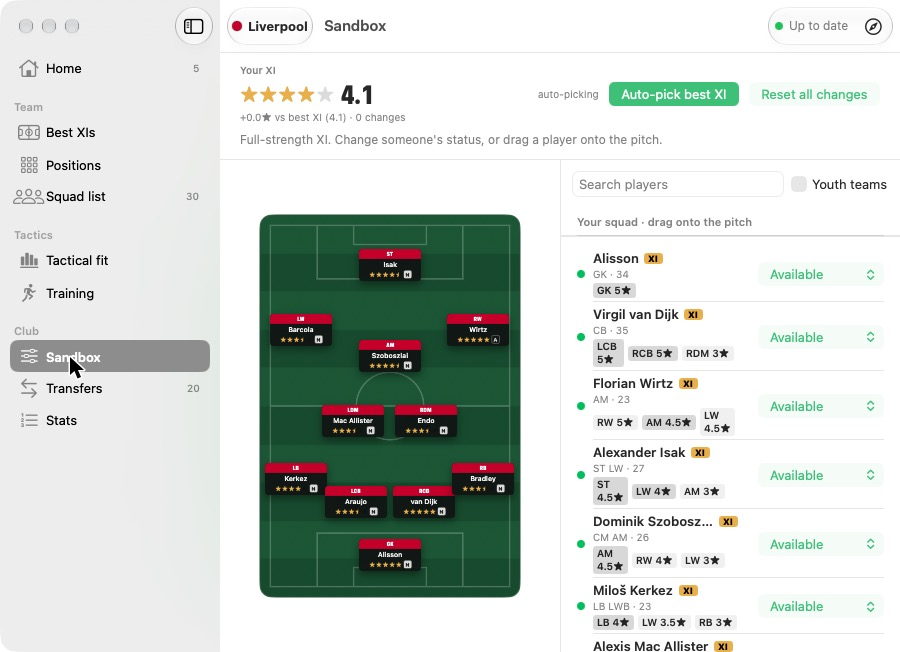
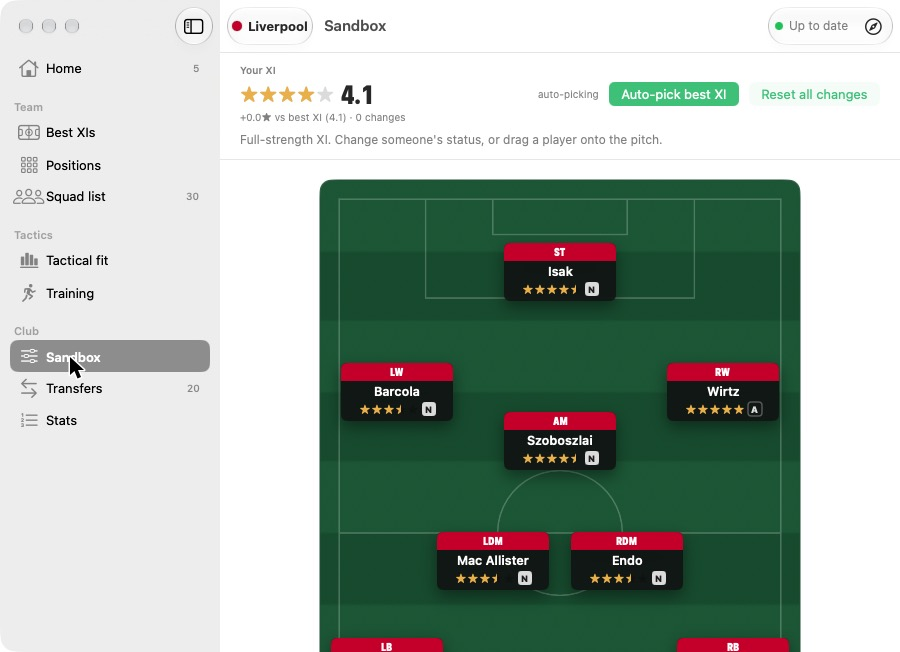
Mac app: readable Sandbox on small windows
When the pitch would get narrower than 380 pt beside the squad list (a
window under about 1000 wide, or a short one), the Sandbox becomes one
scrolling column: the pitch at full size with the squad underneath.
Position chips in the squad list never wrap: three if they fit, else two,
else one. The away-on-loan group folds with its own button so the same
sections work in both layouts.

diff --git a/mac/SquadReport/Views/SandboxView.swift b/mac/SquadReport/Views/SandboxView.swift
@@ -18,23 +18,43 @@ struct SandboxView: View {
 
 private struct SandboxPage: View {
     @Bindable var model: SandboxModel
+    @State private var area = CGSize(width: 1100, height: 700)
+
+    /// Side by side needs a pitch at least this wide, or the cards get too small to read.
+    static let minPitch: CGFloat = 380
+    static let rosterWidth: CGFloat = 420
 
     var body: some View {
+        // the pitch is 68 wide for every 100 tall, so a short window shrinks it as much as a narrow one
+        let sideBySidePitch = min(area.width - Self.rosterWidth - 40, (area.height - 40) * 0.68)
         VStack(spacing: 0) {
             ScoreBar(model: model)
             Divider()
-            HStack(alignment: .top, spacing: 0) {
-                GeometryReader { geo in
-                    let width = min(geo.size.width - 40, (geo.size.height - 40) * 0.68)
-                    SandboxPitch(model: model)
-                        .frame(width: max(300, width))
-                        .frame(maxWidth: .infinity, maxHeight: .infinity)
+            Group {
+                if sideBySidePitch >= Self.minPitch {
+                    HStack(alignment: .top, spacing: 0) {
+                        SandboxPitch(model: model)
+                            .frame(width: sideBySidePitch)
+                            .frame(maxWidth: .infinity, maxHeight: .infinity)
+                        Divider()
+                        Roster(model: model, stacked: false)
+                            .frame(width: Self.rosterWidth)
+                    }
+                } else {
+                    // small window: the pitch at a readable size, the squad underneath, one scroll for both
+                    ScrollView {
+                        VStack(spacing: 0) {
+                            SandboxPitch(model: model)
+                                .frame(width: min(area.width - 40, 520))
+                                .frame(maxWidth: .infinity)
+                            Divider()
+                            Roster(model: model, stacked: true)
+                        }
+                    }
                 }
-                .frame(minWidth: 300)
-                Divider()
-                Roster(model: model)
-                    .frame(minWidth: 330, idealWidth: 440, maxWidth: 520)
             }
+            .frame(maxWidth: .infinity, maxHeight: .infinity)
+            .onGeometryChange(for: CGSize.self) { $0.size } action: { area = $0 }
         }
     }
 }
@@ -216,6 +236,8 @@ private func dragPreview(_ player: Player?) -> some View {
 
 private struct Roster: View {
     let model: SandboxModel
+    /// Under the pitch (small window) instead of beside it: no List of its own, the page scrolls.
+    let stacked: Bool
     @Environment(AppModel.self) private var app
     @State private var search = ""
     @State private var youth = false
@@ -238,38 +260,88 @@ private struct Roster: View {
                 Toggle("Youth teams", isOn: $youth)
             }
             .padding(12)
-            List {
-                Section("Your squad · drag onto the pitch") {
-                    ForEach(here) { RosterRow(model: model, player: $0, inXI: inXI.contains($0.uid)) }
+            if stacked {
+                LazyVStack(alignment: .leading, spacing: 0) {
+                    sections(here: here, arriving: arriving, away: away, targets: targets, inXI: inXI, searching: !q.isEmpty)
                 }
-                if !arriving.isEmpty {
-                    Section("Arriving · already agreed, rated as if they're here") {
-                        ForEach(arriving) { RosterRow(model: model, player: $0, inXI: inXI.contains($0.uid)) }
-                    }
+                .padding(.horizontal, 16).padding(.bottom, 20)
+            } else {
+                List {
+                    sections(here: here, arriving: arriving, away: away, targets: targets, inXI: inXI, searching: !q.isEmpty)
                 }
-                if !away.isEmpty {
-                    Section(isExpanded: Binding(get: { showAway || !q.isEmpty }, set: { showAway = $0 })) {
-                        ForEach(away) { RosterRow(model: model, player: $0, inXI: inXI.contains($0.uid)) }
-                    } header: {
-                        Text("Away on loan · \(away.count) · set one to Available to try him")
-                    }
-                }
-                Section {
-                    ForEach(targets) { RosterRow(model: model, player: $0, inXI: inXI.contains($0.uid)) }
-                    if targets.isEmpty {
-                        Text("No scouting targets yet.").foregroundStyle(.secondary)
-                    }
-                    Button("Find a scouted player…") { finding = true }
-                    Text("Targets are rated from their real attributes. Only add players your scouts have fully reported on; potential is never shown for them.")
-                        .font(.caption).foregroundStyle(.secondary)
-                } header: {
-                    Text("Scouting targets · set to Signed to use them")
-                }
+                .listStyle(.inset)
+                .scrollContentBackground(.hidden)
             }
-            .listStyle(.inset)
-            .scrollContentBackground(.hidden)
         }
         .sheet(isPresented: $finding) { FindPlayers(client: app.engine.client, have: Set(model.report.targets.map(\.uid))) }
+    }
+}
+
+extension Roster {
+    @ViewBuilder
+    fileprivate func sections(here: [Player], arriving: [Player], away: [Player], targets: [Player], inXI: Set<Int>,
+                              searching: Bool) -> some View {
+        Section {
+            ForEach(here) { row($0, inXI) }
+        } header: { header("Your squad · drag onto the pitch") }
+        if !arriving.isEmpty {
+            Section {
+                ForEach(arriving) { row($0, inXI) }
+            } header: { header("Arriving · already agreed, rated as if they're here") }
+        }
+        if !away.isEmpty {
+            let open = showAway || searching
+            Section {
+                if open { ForEach(away) { row($0, inXI) } }
+            } header: {
+                Button {
+                    withAnimation(.snappy) { showAway.toggle() }
+                } label: {
+                    HStack(spacing: 5) {
+                        Image(systemName: "chevron.right").font(.caption2.weight(.bold))
+                            .rotationEffect(.degrees(open ? 90 : 0)).accessibilityHidden(true)
+                        Text("Away on loan · \(away.count) · set one to Available to try him")
+                    }
+                    .contentShape(Rectangle())
+                }
+                .buttonStyle(.plain)
+                .font(stacked ? .callout.weight(.semibold) : .subheadline.weight(.semibold))
+                .foregroundStyle(.secondary)
+                .padding(.top, stacked ? 14 : 0).padding(.bottom, stacked ? 4 : 0)
+                .accessibilityValue(open ? "expanded" : "collapsed")
+                .disabled(searching)
+            }
+        }
+        Section {
+            ForEach(targets) { row($0, inXI) }
+            if targets.isEmpty {
+                Text("No scouting targets yet.").foregroundStyle(.secondary).padding(.vertical, stacked ? 6 : 0)
+            }
+            Button("Find a scouted player…") { finding = true }
+                .padding(.vertical, stacked ? 6 : 0)
+            Text("Targets are rated from their real attributes. Only add players your scouts have fully reported on; potential is never shown for them.")
+                .font(.caption).foregroundStyle(.secondary)
+        } header: { header("Scouting targets · set to Signed to use them") }
+    }
+
+    @ViewBuilder
+    private func header(_ text: String) -> some View {
+        if stacked {
+            Text(text).font(.callout.weight(.semibold)).foregroundStyle(.secondary)
+                .padding(.top, 14).padding(.bottom, 4)
+        } else {
+            Text(text)
+        }
+    }
+
+    @ViewBuilder
+    private func row(_ p: Player, _ inXI: Set<Int>) -> some View {
+        if stacked {
+            RosterRow(model: model, player: p, inXI: inXI.contains(p.uid)).padding(.vertical, 6)
+            Divider()
+        } else {
+            RosterRow(model: model, player: p, inXI: inXI.contains(p.uid))
+        }
     }
 }
 
@@ -294,13 +366,15 @@ private struct RosterRow: View {
                     if inXI { XITag() }
                 }
                 Text(subtitle).font(.caption).foregroundStyle(.secondary).lineLimit(1)
-                HStack(spacing: 4) {
-                    ForEach(Array(slots), id: \.0) { label, r in
-                        Text("\(label) \(Fmt.stars(r.stars))★").font(.caption2.weight(.semibold))
-                            .padding(.horizontal, 4).padding(.vertical, 1)
-                            .background(r.fam == "N" ? Color.primary.opacity(0.18) : Color.primary.opacity(0.07), in: RoundedRectangle(cornerRadius: 3))
+                if slots.isEmpty {
+                    Text("no slot in your tactic").font(.caption2).foregroundStyle(.secondary)
+                } else {
+                    // never wraps: as many of his best three slots as fit on one line
+                    ViewThatFits(in: .horizontal) {
+                        chips(Array(slots))
+                        chips(Array(slots.prefix(2)))
+                        chips(Array(slots.prefix(1)))
                     }
-                    if slots.isEmpty { Text("no slot in your tactic").font(.caption2).foregroundStyle(.secondary) }
                 }
             }
             Spacer(minLength: 4)
@@ -314,6 +388,17 @@ private struct RosterRow: View {
         .contentShape(Rectangle())
         .draggable(String(player.uid)) { dragPreview(player) }
         .accessibilityElement(children: .combine)
+    }
+
+    private func chips(_ slots: [(String, Rating)]) -> some View {
+        HStack(spacing: 4) {
+            ForEach(slots, id: \.0) { label, r in
+                Text("\(label) \(Fmt.stars(r.stars))★").font(.caption2.weight(.semibold))
+                    .lineLimit(1).fixedSize()
+                    .padding(.horizontal, 4).padding(.vertical, 1)
+                    .background(r.fam == "N" ? Color.primary.opacity(0.18) : Color.primary.opacity(0.07), in: RoundedRectangle(cornerRadius: 3))
+            }
+        }
     }
 
     private var subtitle: String {
